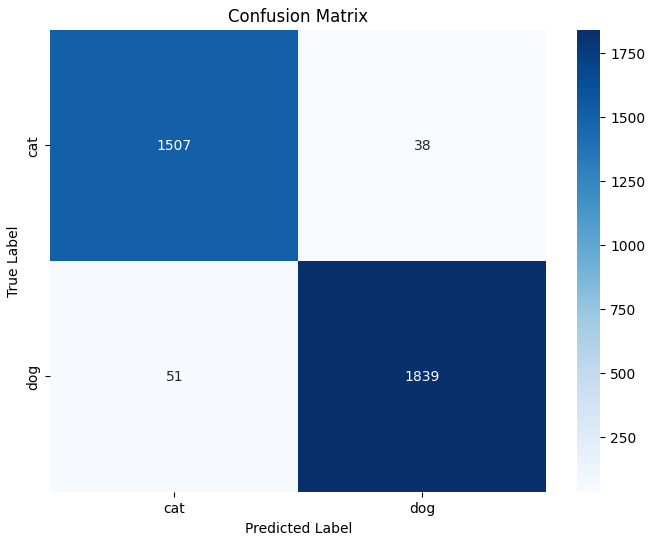
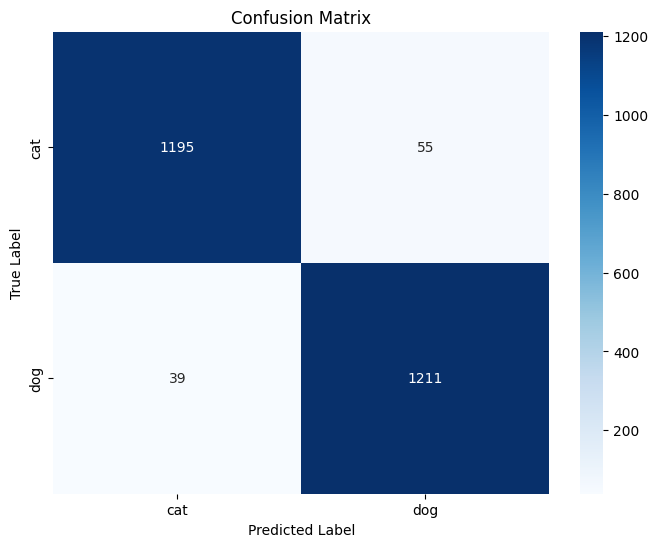
Cập nhật hình ảnh huấn luyện và ma trận nhầm lẫn của ResNet-18 từ notebook

diff --git a/README.md b/README.md
@@ -910,8 +910,7 @@ The structural properties of the model are outlined below:
     *   Validation loss: $0.0941$, Validation accuracy: $96.41\%$.
 *   Training took 5,552 seconds (approximately 1.5 hours) on a standard GPU.
 
-![ResNet Training Loss](report/resnet_training_loss.png)
-![ResNet Training Accuracy](report/resnet_training_accuracy.png)
+![ResNet Training Curves](report/resnet_training_curves.png)
 
 #### 5.4. Validation and Test Results
 

diff --git a/report/Report.md b/report/Report.md
@@ -910,8 +910,7 @@ The structural properties of the model are outlined below:
     *   Validation loss: $0.0941$, Validation accuracy: $96.41\%$.
 *   Training took 5,552 seconds (approximately 1.5 hours) on a standard GPU.
 
-![ResNet Training Loss](resnet_training_loss.png)
-![ResNet Training Accuracy](resnet_training_accuracy.png)
+![ResNet Training Curves](resnet_training_curves.png)
 
 #### 5.4. Validation and Test Results
 

diff --git a/CNN-ResNet/CNN-Resnet.md b/CNN-ResNet/CNN-Resnet.md
@@ -115,7 +115,6 @@ $$\frac{\partial L}{\partial x} = 0 + \frac{\partial L}{\partial y} = \frac{\par
 
 ## Training process 
 
-![Ảnh minh họa](Anh6.png)
 ![Ảnh minh họa](Anh7.png)
 
 - The result model is from epoch 19 , which has the smallest val_loss